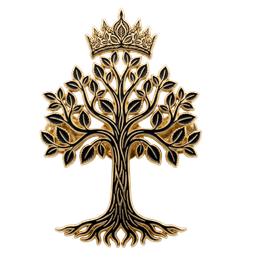
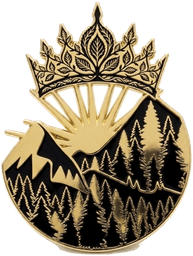
Land the new Order of the Realm pin art
Cuts the white studio background off the uploaded photograph and installs it
as the crown Seal at both the master and app paths, replacing the old
crowned-tree pin.

Background removal is a flood fill inward from the border, not a luminance
threshold: the gold carries near-white specular highlights that a threshold
eats, while a fill can never reach them because they are interior. Three
things here fail by producing a plausible wrong image rather than an error,
so they are written up in docs/build-history.md:

- the upload has a 1px dark strip down its right edge (scan artifact), which
  stops the fill ever seeding from that side;
- sharp.blur() promotes a 1-channel raw mask to 3-channel sRGB, so the
  feathered alpha must be read back through info.channels;
- sharp.trim() keys on the corner colour, which is meaningless once that
  corner is transparent, so the crop box comes off the alpha instead.

Master 656x868 (the source photo's own resolution), app copy 193x256 at
43 KB. optimize:brand rewrites all four brand assets in place, so the three
unrelated ones were reverted to keep the diff to this change.

Verified: npm run build clean, and the Seal screenshotted at 375x812 on Home
and /quests/elm with 0 console errors.

Claude-Session: https://claude.ai/code/session_01DuWp9MMHqzQusnXu2ixutf

diff --git a/docs/build-history.md b/docs/build-history.md
@@ -74,8 +74,8 @@ Wholesale naming change (user-directed). **Display names only — internal ids a
 
 **Cross-file contracts that had to move in lockstep** — `gen-clip-map.mjs` hard-checks `orgs.ts` names against `season-1.json` `organizations[].organization`, and `stations.ts` names against the `"21. Realmhold"` slots, so `content-intake/season-1.json` is renamed too or generation dies. **The canon fingerprint is unchanged (`132EB1DA89E208F5`)** — it hashes `episodeId|orgId|number|stationIds`, never names — so no plinth is re-cut by this change. Regenerated artifacts (`station_clips.h`, 21 SD-card manifests) came back byte-identical to the hand-applied edits: `gen-clip-map --check` clean, 22 files.
 
-**Brand asset:** `badge-crowned-tree-gold.png` → `badge-crowned-realm-gold.png` (git mv, so the Seal keeps rendering) in `questland/public/assets/`, `content-intake/brand/`, `ui/Seal.tsx`, `soundtrack.ts`, `optimize-brand.mjs` and the DS mirror. **The bytes are still the OLD pin** — the user's new Order of the Realm art (crowned tree over a forest circle) must be dropped at both paths to land.
+**Brand asset:** `badge-crowned-tree-gold.png` → `badge-crowned-realm-gold.png` (git mv, so the Seal keeps rendering) in `questland/public/assets/`, `content-intake/brand/`, `ui/Seal.tsx`, `soundtrack.ts`, `optimize-brand.mjs` and the DS mirror. **New art landed 2026-08-18.** The user uploaded the photograph through the GitHub web UI on a phone (`content-intake/brand/IMG_4098.png`, 992x1077, opaque white studio background). **That is the only route for a binary the user holds locally:** chat attachments never become files, every non-GitHub host is refused by this session's egress policy, and `github.com/user-attachments/...` — where issue attachments live — is refused by the session's repo scoping. An in-repo upload is it. Background cut locally with sharp: **flood fill inward from the border**, never a global luminance threshold, because the gold carries near-white specular highlights that a threshold eats while a fill can never reach them (they are interior). Three traps, all of which produced a plausible-looking wrong answer rather than an error: the upload has a **1px dark strip down its right edge** (scan artifact) which stops the fill ever seeding from that side; **`sharp.blur()` promotes a 1-channel raw mask to 3-channel sRGB**, so the feathered alpha must be read back through its own `info.channels` — indexing it as 1 channel silently shears the mask into garbage; and **`sharp.trim()` keys on the corner COLOUR**, which is meaningless once that corner is already transparent, so the crop box is computed off the alpha instead. Master is 656x868 (smaller than the 2048px masters beside it — that is the source photo's resolution, not a downscale); app copy 193x256, 43 KB. `npm run optimize:brand` rewrites ALL FOUR brand assets in place, so the three unrelated ones were reverted to keep the diff honest.
 
 **KNOWN STALE — the park map raster.** `content-intake/park-map.png` and the bundled `questland/public/assets/park-map.webp` have the old names *drawn into the art*: the title banner reads "The Wilds of Questia" and pin 21 reads "21. ELMROOT". Nothing in code can fix this; the map must be re-rendered or the two labels repainted, then `npm run optimize:map`. Flagged to the user 2026-08-18, not yet done.
 
-Verified: `npm run build` clean, `npm run fw:kat` 71/71, `gen-clip-map --check` clean, both intake JSONs parse. Not verified: nothing was screenshotted this pass (text-only rename); the map gap above is open.
+Verified: `npm run build` clean, `npm run fw:kat` 71/71, `gen-clip-map --check` clean, both intake JSONs parse, and the new Seal screenshotted at 375x812 on Home and `/quests/elm` (0 console errors, new names reading "Rangers of the Kingdom" / "Order of the Realm"). Note for whoever tunes this next: the pin reads as **gold linework** in the Seal because its black enamel sits within a few points of the stone ground behind it. The map gap above is still open.
